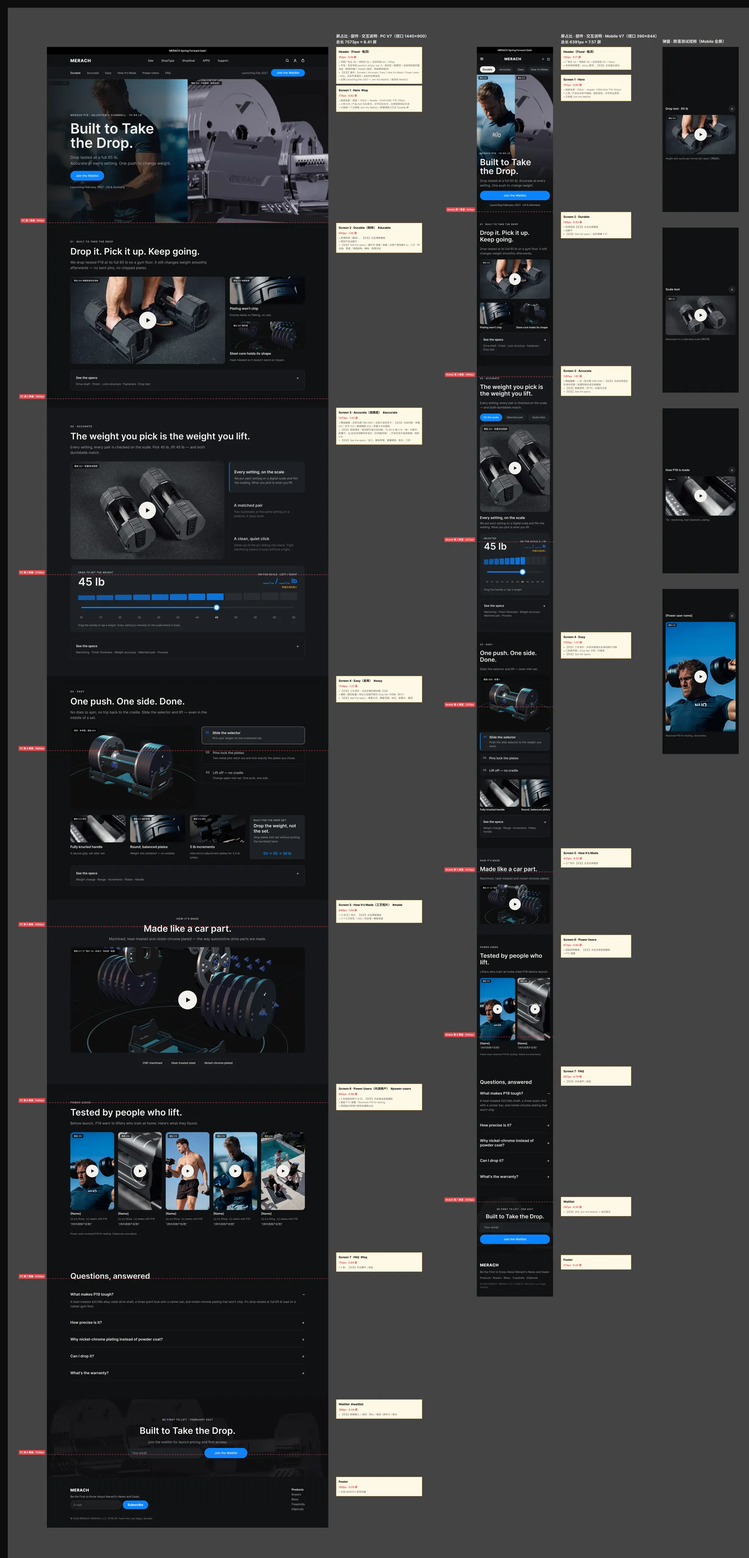
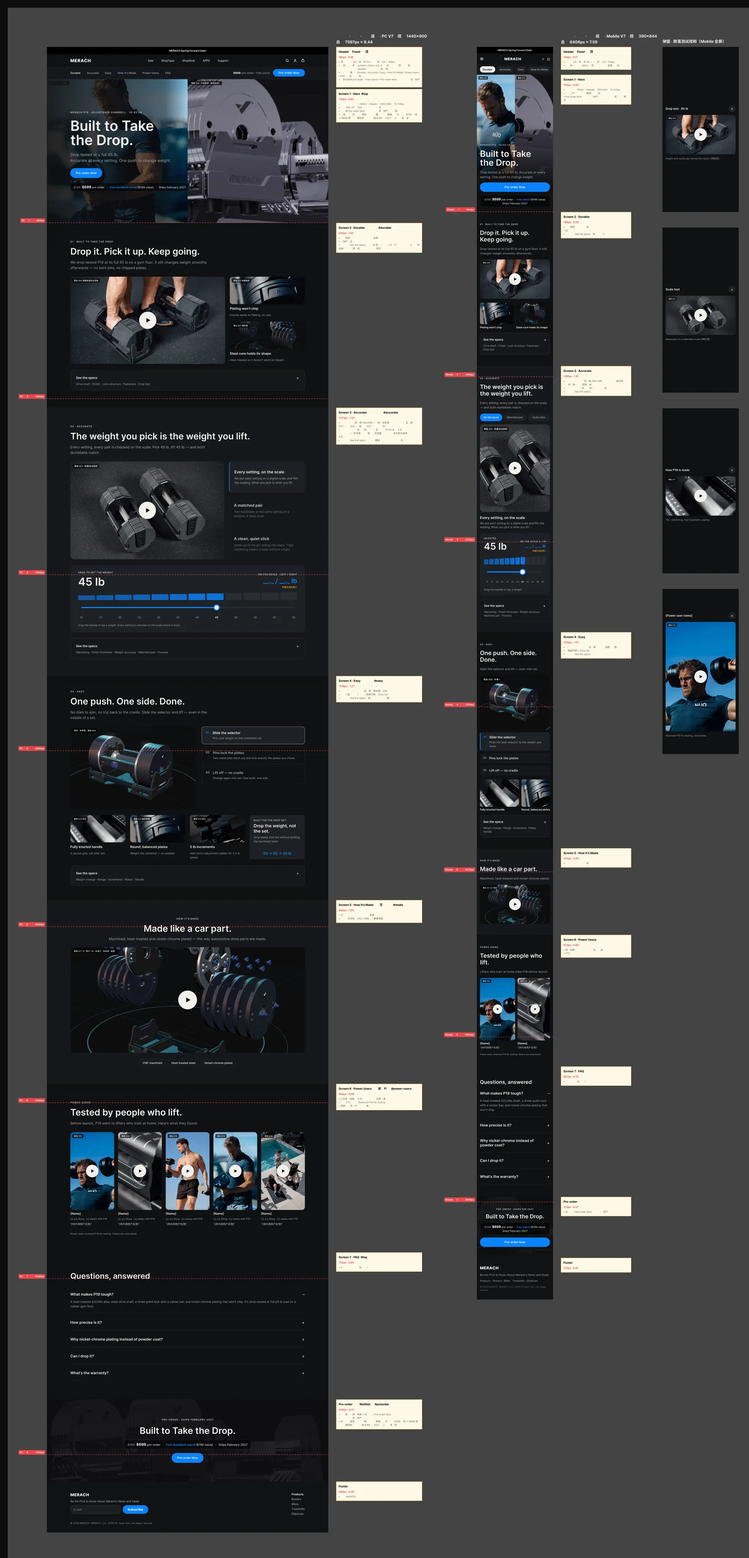
Explore V7: replace waitlist with Pre-order Now (to product page) and compact offer line (preview)
Claude-Session: https://claude.ai/code/session_01RNRjNYdB2DmXKuzbHkJAw4

diff --git a/handoff.html b/handoff.html
@@ -41,32 +41,32 @@ blockquote{margin:12px 0;padding:8px 14px;border-left:3px solid var(--accent);ba
 <header class="top"><div class="in"><b>MERACH P19</b><a href="index.html" class="">总览</a><a href="product.html" class="">产品营销方案</a><a href="imc.html" class="">整合营销方案</a><a href="comp/" class="">对标竞品参数页</a><a href="explore.html" class="">Explore 教育页</a><a href="handoff.html" class="on">开发需求</a><a href="market.html" class="">市场容量</a></div></header><div class="shell one"><main><h1>Explore 教育页 · 开发需求说明（V7）</h1>
 <p class="meta">版本 2026-11-18（V7 深石墨 · 可交互 · 二轮） · 设计稿 <a href="https://www.figma.com/design/44z4t0SOMdf8TVVw1gtSZz/%E6%97%A0%E6%B0%A7P19?node-id=68-608" target="_blank" rel="noopener">PC</a> / <a href="https://www.figma.com/design/44z4t0SOMdf8TVVw1gtSZz/%E6%97%A0%E6%B0%A7P19?node-id=70-679" target="_blank" rel="noopener">Mobile</a> · 可点击原型 <a href="https://www.figma.com/proto/44z4t0SOMdf8TVVw1gtSZz/%E6%97%A0%E6%B0%A7P19?node-id=68-608&amp;starting-point-node-id=68%3A608" target="_blank" rel="noopener">PC</a> / <a href="https://www.figma.com/proto/44z4t0SOMdf8TVVw1gtSZz/%E6%97%A0%E6%B0%A7P19?node-id=70-679&amp;starting-point-node-id=70%3A679" target="_blank" rel="noopener">Mobile</a>。图片左上角黑色标签为拍摄编号，开发时不要还原。</p>
 <h2>一、基本信息</h2>
-<ul><li>页面：P19 Explore 教育页，独立站单页，7 屏 + 等待名单 + 页头页脚。工艺数值统一放在各屏“See the specs”折叠中。</li>
+<ul><li>页面：P19 Explore 教育页，独立站单页，7 屏 + 预售条 + 页头页脚。工艺数值统一放在各屏“See the specs”折叠中。</li>
 <li>设计基准：PC 1440 宽，内容区 1200，左右边距 120；Mobile 390 宽，左右边距 16。</li>
 <li>断点建议：≥1024 用 PC 布局；768–1023 内容区自适应、并排卡片降为 2 列；&lt;768 用 Mobile 布局。</li>
 <li>屏占比口径：PC 按视口 1440×900 计 1 屏，Mobile 按 390×844 计 1 屏。</li>
 <li>英文主张 Built to Take the Drop 已确定；页面按“主张 → 三支柱”组织。</li></ul>
 <h2>二、屏占比</h2>
 <p>首屏全屏：Header + Hero 合计正好 1 屏（PC 1440×900、Mobile 390×844）。Header 含支柱导航，支柱导航吸顶。Accurate 承载画廊与滑块，允许约 1.5 屏；Easy 已压缩到约 1.3 屏（细节图与 Drop Set 卡同排）。</p>
-<div class="tw"><table><thead><tr><th>模块</th><th>锚点</th><th>PC 高度 px</th><th>PC 屏占比</th><th>Mobile 高度 px</th><th>Mobile 屏占比</th></tr></thead><tbody><tr><td>Header（广告位 + 导航 + 支柱导航，吸顶）</td><td>—</td><td>165</td><td>0.18</td><td>142</td><td>0.17</td></tr><tr><td>Screen 1 · Hero（全屏）</td><td>#top</td><td>735</td><td>0.82（与 Header 合计 1.00）</td><td>702</td><td>0.83（与 Header 合计 1.00）</td></tr><tr><td>Screen 2 · Durable（耐摔）</td><td>#durable</td><td>945</td><td>1.05</td><td>788</td><td>0.93</td></tr><tr><td>Screen 3 · Accurate（高精度）</td><td>#accurate</td><td>1372</td><td>1.52</td><td>1361</td><td>1.61</td></tr><tr><td>Screen 4 · Easy（易用 + 细节 + Drop Set）</td><td>#easy</td><td>1146</td><td>1.27</td><td>1105</td><td>1.31</td></tr><tr><td>Screen 5 · How It’s Made（工艺短片）</td><td>#made</td><td>940</td><td>1.04</td><td>443</td><td>0.52</td></tr><tr><td>Screen 6 · Power Users</td><td>#power-users</td><td>862</td><td>0.96</td><td>673</td><td>0.80</td></tr><tr><td>Screen 7 · FAQ</td><td>#faq</td><td>752</td><td>0.84</td><td>667</td><td>0.79</td></tr><tr><td>Waitlist</td><td>#waitlist</td><td>396</td><td>0.44</td><td>297</td><td>0.35</td></tr><tr><td>Footer</td><td>—</td><td>260</td><td>0.29</td><td>213</td><td>0.25</td></tr><tr><td><b>合计</b></td><td></td><td><b>7573</b></td><td><b>8.41 屏</b></td><td><b>6391</b></td><td><b>7.57 屏</b></td></tr></tbody></table></div>
+<div class="tw"><table><thead><tr><th>模块</th><th>锚点</th><th>PC 高度 px</th><th>PC 屏占比</th><th>Mobile 高度 px</th><th>Mobile 屏占比</th></tr></thead><tbody><tr><td>Header（广告位 + 导航 + 支柱导航，吸顶）</td><td>—</td><td>165</td><td>0.18</td><td>142</td><td>0.17</td></tr><tr><td>Screen 1 · Hero（全屏）</td><td>#top</td><td>735</td><td>0.82（与 Header 合计 1.00）</td><td>702</td><td>0.83（与 Header 合计 1.00）</td></tr><tr><td>Screen 2 · Durable（耐摔）</td><td>#durable</td><td>945</td><td>1.05</td><td>788</td><td>0.93</td></tr><tr><td>Screen 3 · Accurate（高精度）</td><td>#accurate</td><td>1372</td><td>1.52</td><td>1361</td><td>1.61</td></tr><tr><td>Screen 4 · Easy（易用 + 细节 + Drop Set）</td><td>#easy</td><td>1146</td><td>1.27</td><td>1105</td><td>1.31</td></tr><tr><td>Screen 5 · How It’s Made（工艺短片）</td><td>#made</td><td>940</td><td>1.04</td><td>443</td><td>0.52</td></tr><tr><td>Screen 6 · Power Users</td><td>#power-users</td><td>862</td><td>0.96</td><td>673</td><td>0.80</td></tr><tr><td>Screen 7 · FAQ</td><td>#faq</td><td>752</td><td>0.84</td><td>667</td><td>0.79</td></tr><tr><td>Pre-order（原 Waitlist）</td><td>#preorder</td><td>420</td><td>0.47</td><td>312</td><td>0.37</td></tr><tr><td>Footer</td><td>—</td><td>260</td><td>0.29</td><td>213</td><td>0.25</td></tr><tr><td><b>合计</b></td><td></td><td><b>7597</b></td><td><b>8.44 屏</b></td><td><b>6406</b></td><td><b>7.59 屏</b></td></tr></tbody></table></div>
 <h2>三、全局规范</h2>
 <h3>颜色</h3><div class="tw"><table><thead><tr><th>用途</th><th>色值</th><th>使用位置</th></tr></thead><tbody><tr><td>页面底</td><td>#0F1012</td><td>Hero、Durable、Accurate、FAQ</td></tr><tr><td>区块底</td><td>#16181B</td><td>支柱导航、规格抽屉、Easy</td></tr><tr><td>卡片</td><td>#1E2125</td><td>证据卡、滑块面板、画廊当前标签</td></tr><tr><td>分隔线</td><td>#2A2E33</td><td>卡片描边、三栏分隔</td></tr><tr><td>主文字</td><td>#F1F0EC</td><td>标题、强调</td></tr><tr><td>辅助文字</td><td>#A3A7AD</td><td>正文、说明</td></tr><tr><td>钢灰</td><td>#C7CCD2</td><td>Eyebrow、图形线条</td></tr><tr><td>主色</td><td>#0A84FF</td><td>按钮、滑块、当前标签与配重片高亮</td></tr><tr><td>待确认标记</td><td>#F5A524</td><td>仅设计稿使用，上线前删除</td></tr></tbody></table></div>
 <h3>字号</h3><p>设计稿字体为 Inter；如独立站已有品牌字体，以站内字体为准，字号与字重按下表。</p><div class="tw"><table><thead><tr><th>层级</th><th>PC</th><th>Mobile</th></tr></thead><tbody><tr><td>H1</td><td>72 / Semi Bold，行高 102%</td><td>44 / Semi Bold</td></tr><tr><td>H2</td><td>46 / Semi Bold</td><td>30 / Semi Bold</td></tr><tr><td>Eyebrow</td><td>12 / Semi Bold，全大写，字距 14%</td><td>11 / Semi Bold</td></tr><tr><td>正文</td><td>18 / Regular，行高 155%</td><td>15 / Regular</td></tr><tr><td>卡片标题</td><td>17 / Semi Bold</td><td>14 / Semi Bold</td></tr><tr><td>说明</td><td>14 / Regular</td><td>12–13 / Regular</td></tr><tr><td>按钮</td><td>15 / Semi Bold，高 52，全圆角</td><td>同 PC，通栏</td></tr></tbody></table></div>
 <p>圆角：图片与卡片 12–16，按钮与胶囊全圆角。屏与屏之间不留间距，靠 #0F1012 / #16181B 交替区分。</p>
 <h2>四、部件说明</h2>
-<div class="tw"><table><thead><tr><th>部件</th><th>位置</th><th>PC</th><th>Mobile</th><th>交互与状态</th></tr></thead><tbody><tr><td>顶部广告位 / 导航栏</td><td>全站</td><td>复用现有 Header</td><td>复用移动端 Header</td><td>随页面滚走</td></tr><tr><td>支柱导航</td><td>Header 下方</td><td>高 64，6 个锚点 + 上市时间 + Mini CTA</td><td>高 53，横滑胶囊</td><td>吸顶（sticky）、滚动高亮、平滑滚动</td></tr><tr><td>Hero</td><td>Screen 1</td><td>高 = 100vh − Header；人物 / 产品各 720 宽铺满；左侧渐变，文案垂直居中</td><td>高 = 100vh − Header；人物 / 产品各 195 宽铺满；底部渐变，文案压在底部</td><td>一个主按钮 + 上市时间</td></tr><tr><td>视频位 + 弹窗</td><td>Screen 2、3、5、6</td><td>16:9；竖版 224×398</td><td>全屏弹窗</td><td>点击播放，关闭停止</td></tr><tr><td>证据卡</td><td>Screen 2</td><td>右侧两张产品图卡</td><td>两列</td><td>静态</td></tr><tr><td>精度画廊（Accurate Proof Gallery）</td><td>Screen 3</td><td>左大图 788×500 + 右侧 3 张标签卡</td><td>标签 + 大图 358×448 + 说明</td><td>点击切换；Mobile 可左右滑动</td></tr><tr><td>拖拽重量滑块（Weight Drag Slider）</td><td>Screen 3</td><td>宽 1200；大数字 + 左 / 右实测读数 + 12 段配重片 + 滑轨 + 刻度</td><td>宽 358，同结构</td><td>拖拽 / 点击刻度，吸附 5 lb</td></tr><tr><td>See the specs（规格抽屉）</td><td>Screen 2、3、4</td><td>收起时显示规格项目名；展开为三列表格</td><td>展开为纵向堆叠</td><td>点击展开 / 收起</td></tr><tr><td>步骤演示</td><td>Screen 4</td><td>主图 640×420 + 右侧 3 步</td><td>主图 358×280 + 纵向 3 步</td><td>点击切换；Mobile 可滑动</td></tr><tr><td>细节卡 + Drop Set 卡</td><td>Screen 4</td><td>四卡同排：3 张产品图 282×140 + 1 张 Drop Set 文字卡</td><td>同一行横滑 200×162 ×4</td><td>静态；Drop Set 注释必须保留</td></tr><tr><td>工艺标签</td><td>Screen 5</td><td>3 个胶囊</td><td>—</td><td>静态</td></tr><tr><td>内测用户视频卡</td><td>Screen 6</td><td>5 张 9:16 卡片</td><td>横滑 4 张</td><td>点击竖版弹窗播放；FTC 披露</td></tr><tr><td>FAQ</td><td>Screen 7</td><td>宽 1200</td><td>通栏</td><td>手风琴；FAQPage 结构化数据</td></tr><tr><td>Waitlist 表单</td><td>Waitlist</td><td>输入框 + 按钮横排</td><td>上下堆叠</td><td>默认 / 加载 / 成功 / 错误</td></tr><tr><td>Footer</td><td>全站</td><td>复用</td><td>复用</td><td>不新开发</td></tr></tbody></table></div>
+<div class="tw"><table><thead><tr><th>部件</th><th>位置</th><th>PC</th><th>Mobile</th><th>交互与状态</th></tr></thead><tbody><tr><td>顶部广告位 / 导航栏</td><td>全站</td><td>复用现有 Header</td><td>复用移动端 Header</td><td>随页面滚走</td></tr><tr><td>支柱导航</td><td>Header 下方</td><td>高 64，6 个锚点 + “$699 pre-order · Free stand” + Pre-order Now</td><td>高 53，横滑胶囊</td><td>吸顶（sticky）、滚动高亮、平滑滚动</td></tr><tr><td>Hero</td><td>Screen 1</td><td>高 = 100vh − Header；人物 / 产品各 720 宽铺满；左侧渐变，文案垂直居中</td><td>高 = 100vh − Header；人物 / 产品各 195 宽铺满；底部渐变，文案压在底部</td><td>Pre-order Now + 一行优惠条</td></tr><tr><td>视频位 + 弹窗</td><td>Screen 2、3、5、6</td><td>16:9；竖版 224×398</td><td>全屏弹窗</td><td>点击播放，关闭停止</td></tr><tr><td>证据卡</td><td>Screen 2</td><td>右侧两张产品图卡</td><td>两列</td><td>静态</td></tr><tr><td>精度画廊（Accurate Proof Gallery）</td><td>Screen 3</td><td>左大图 788×500 + 右侧 3 张标签卡</td><td>标签 + 大图 358×448 + 说明</td><td>点击切换；Mobile 可左右滑动</td></tr><tr><td>拖拽重量滑块（Weight Drag Slider）</td><td>Screen 3</td><td>宽 1200；大数字 + 左 / 右实测读数 + 12 段配重片 + 滑轨 + 刻度</td><td>宽 358，同结构</td><td>拖拽 / 点击刻度，吸附 5 lb</td></tr><tr><td>See the specs（规格抽屉）</td><td>Screen 2、3、4</td><td>收起时显示规格项目名；展开为三列表格</td><td>展开为纵向堆叠</td><td>点击展开 / 收起</td></tr><tr><td>步骤演示</td><td>Screen 4</td><td>主图 640×420 + 右侧 3 步</td><td>主图 358×280 + 纵向 3 步</td><td>点击切换；Mobile 可滑动</td></tr><tr><td>细节卡 + Drop Set 卡</td><td>Screen 4</td><td>四卡同排：3 张产品图 282×140 + 1 张 Drop Set 文字卡</td><td>同一行横滑 200×162 ×4</td><td>静态；Drop Set 注释必须保留</td></tr><tr><td>工艺标签</td><td>Screen 5</td><td>3 个胶囊</td><td>—</td><td>静态</td></tr><tr><td>内测用户视频卡</td><td>Screen 6</td><td>5 张 9:16 卡片</td><td>横滑 4 张</td><td>点击竖版弹窗播放；FTC 披露</td></tr><tr><td>FAQ</td><td>Screen 7</td><td>宽 1200</td><td>通栏</td><td>手风琴；FAQPage 结构化数据</td></tr><tr><td>预售条（原 Waitlist）</td><td>页尾</td><td>标题 + 优惠条 + 按钮，居中</td><td>同 PC，按钮通栏，优惠条两行</td><td>点击跳转产品页</td></tr><tr><td>优惠条</td><td>Hero、页尾</td><td>一行胶囊：原价划线、预售价加粗、赠品蓝色</td><td>两行</td><td>静态；价格与赠品待整合营销确认</td></tr><tr><td>Footer</td><td>全站</td><td>复用</td><td>复用</td><td>不新开发</td></tr></tbody></table></div>
 <h2>五、交互清单</h2>
-<div class="tw"><table><thead><tr><th>元素</th><th>交互</th></tr></thead><tbody><tr><td>Join the Waitlist（首屏、吸顶导航）</td><td>悬停变色；点击滚动到 #waitlist</td></tr><tr><td>支柱导航（吸顶）</td><td>position: sticky; top: 0，滚动后一直置顶；当前所在屏高亮；点击平滑滚动。锚点：Durable / Accurate / Easy / How It’s Made / Power Users / FAQ</td></tr><tr><td>视频播放按钮</td><td>点击弹窗播放：跌落测试、称重测试、工厂短片、内测用户竖版视频；Mobile 为全屏</td></tr><tr><td>精度画廊</td><td>PC：点击右侧三张标签卡切换左侧大图；Mobile：点击标签或左右滑动切换；称重卡带播放按钮</td></tr><tr><td>拖拽重量滑块</td><td>拖动把手或点击刻度，10–65 lb 每 5 lb 一档，吸附到档位；大数字、配重片高亮、左 / 右实测读数同步变化（实测值称重后填入）</td></tr><tr><td>See the specs</td><td>点击展开 / 收起；展开为“规格 / 参数 / 对用户意味着什么”，PC 三列表格，Mobile 纵向堆叠；三屏各 5 行</td></tr><tr><td>Easy 步骤</td><td>PC 点击 01 / 02 / 03 切换主图；Mobile 点击步骤或左右滑动图片切换</td></tr><tr><td>FAQ 手风琴</td><td>默认展开第 1 条，同时只展开 1 条</td></tr><tr><td>Waitlist 表单</td><td>提交 → 加载 → 成功；错误态（PC 与 Mobile 一致）</td></tr></tbody></table></div>
+<div class="tw"><table><thead><tr><th>元素</th><th>交互</th></tr></thead><tbody><tr><td>Pre-order Now（首屏、吸顶导航、页尾预售条）</td><td>悬停变色；点击跳转 P19 产品页（链接待定）</td></tr><tr><td>优惠条</td><td>静态一行：99 划线 → 99 预售价 · 赠哑铃底座（价值 99）· 2027 年 2 月到货即发（预览，价格与赠品以整合营销方案为准）</td></tr><tr><td>支柱导航（吸顶）</td><td>position: sticky; top: 0，滚动后一直置顶；当前所在屏高亮；点击平滑滚动。锚点：Durable / Accurate / Easy / How It’s Made / Power Users / FAQ</td></tr><tr><td>视频播放按钮</td><td>点击弹窗播放：跌落测试、称重测试、工厂短片、内测用户竖版视频；Mobile 为全屏</td></tr><tr><td>精度画廊</td><td>PC：点击右侧三张标签卡切换左侧大图；Mobile：点击标签或左右滑动切换；称重卡带播放按钮</td></tr><tr><td>拖拽重量滑块</td><td>拖动把手或点击刻度，10–65 lb 每 5 lb 一档，吸附到档位；大数字、配重片高亮、左 / 右实测读数同步变化（实测值称重后填入）</td></tr><tr><td>See the specs</td><td>点击展开 / 收起；展开为“规格 / 参数 / 对用户意味着什么”，PC 三列表格，Mobile 纵向堆叠；三屏各 5 行</td></tr><tr><td>Easy 步骤</td><td>PC 点击 01 / 02 / 03 切换主图；Mobile 点击步骤或左右滑动图片切换</td></tr><tr><td>FAQ 手风琴</td><td>默认展开第 1 条，同时只展开 1 条</td></tr></tbody></table></div>
 <p>所有组件的状态（悬停、展开、切换、表单流程）已在 Figma 组件区全部展开，可直接在原型中点击体验：</p>
 <img src="assets/explore-v5-components.webp" alt="Explore V7 交互组件与状态" loading="lazy">
 <h2>六、图片与视频位</h2>
 <p>请按下表尺寸出 2 倍图，格式 WebP；视频提供 MP4（H.264）与封面图。当前全部为占位图，上线前替换为实拍。</p>
-<div class="tw"><table><thead><tr><th>图位（拍摄编号）</th><th>PC 尺寸</th><th>Mobile 尺寸</th><th>说明</th></tr></thead><tbody><tr><td>hero 人物（S18）</td><td>720×735</td><td>195×702</td><td>人物使用场景，竖向裁切需保留人物主体</td></tr><tr><td>hero 产品静物（S20）</td><td>720×735</td><td>195×702</td><td>居家空间中的 P19</td></tr><tr><td>跌落测试（S06）</td><td>792×446 + MP4</td><td>358×201</td><td>正式跌落测试视频</td></tr><tr><td>称重测试（S21）</td><td>788×500 + MP4</td><td>358×448</td><td>各档上秤，读数特写</td></tr><tr><td>天平（S22）</td><td>788×500</td><td>358×448</td><td>两只等重，天平水平</td></tr><tr><td>插销微距（S23）</td><td>788×500 + MP4</td><td>358×448</td><td>插销慢动作，同期收音</td></tr><tr><td>证据卡（S07、S15）</td><td>384×140</td><td>173×110</td><td>爆炸图；电镀表面</td></tr><tr><td>步骤（S03–S05）</td><td>640×420 ×3</td><td>358×280 ×3</td><td>建议静音循环短视频</td></tr><tr><td>细节（S14、S15）</td><td>282×140 ×3</td><td>200×140 ×3</td><td>握把、圆形配重、档位</td></tr><tr><td>工厂短片（S17）</td><td>1200×540 + MP4</td><td>358×201</td><td>15 秒：机加工、热处理、电镀</td></tr><tr><td>内测用户（S19）</td><td>224×398 封面 + 9:16 MP4 ×5</td><td>180×320 ×4</td><td>由内测用户提供</td></tr><tr><td>waitlist bg</td><td>1440×396</td><td>390×297</td><td>文字区压暗</td></tr></tbody></table></div>
+<div class="tw"><table><thead><tr><th>图位（拍摄编号）</th><th>PC 尺寸</th><th>Mobile 尺寸</th><th>说明</th></tr></thead><tbody><tr><td>hero 人物（S18）</td><td>720×735</td><td>195×702</td><td>人物使用场景，竖向裁切需保留人物主体</td></tr><tr><td>hero 产品静物（S20）</td><td>720×735</td><td>195×702</td><td>居家空间中的 P19</td></tr><tr><td>跌落测试（S06）</td><td>792×446 + MP4</td><td>358×201</td><td>正式跌落测试视频</td></tr><tr><td>称重测试（S21）</td><td>788×500 + MP4</td><td>358×448</td><td>各档上秤，读数特写</td></tr><tr><td>天平（S22）</td><td>788×500</td><td>358×448</td><td>两只等重，天平水平</td></tr><tr><td>插销微距（S23）</td><td>788×500 + MP4</td><td>358×448</td><td>插销慢动作，同期收音</td></tr><tr><td>证据卡（S07、S15）</td><td>384×140</td><td>173×110</td><td>爆炸图；电镀表面</td></tr><tr><td>步骤（S03–S05）</td><td>640×420 ×3</td><td>358×280 ×3</td><td>建议静音循环短视频</td></tr><tr><td>细节（S14、S15）</td><td>282×140 ×3</td><td>200×140 ×3</td><td>握把、圆形配重、档位</td></tr><tr><td>工厂短片（S17）</td><td>1200×540 + MP4</td><td>358×201</td><td>15 秒：机加工、热处理、电镀</td></tr><tr><td>内测用户（S19）</td><td>224×398 封面 + 9:16 MP4 ×5</td><td>180×320 ×4</td><td>由内测用户提供</td></tr><tr><td>预售条背景</td><td>1440×420</td><td>390×312</td><td>文字区压暗</td></tr></tbody></table></div>
 <h2>七、待确认</h2>
 <ul><li>重量精度 ±1.5%：待工厂确认实测数据，未确认前 Screen 3 规格抽屉与 FAQ 相关内容不得上线。</li>
 <li>跌落测试高度与次数：待正式报告，确认后补入 Screen 2 与视频弹窗说明。</li>
 <li>质保年限与是否覆盖跌落：待确认后补入 FAQ。</li>
-<li>Waitlist 对接的邮件列表与早鸟权益文案：待定。</li>
+<li>产品页链接、预售价（$699）、赠品（哑铃底座，价值 $199）与发货时间：以整合营销方案为准，当前为预览。</li>
 <li>Power Users 视频：内测用户提供后替换第 6 屏占位，需肖像与内容授权、FTC 披露。</li>
 <li>拖拽滑块的实测数值（每档左 / 右两只）：称重测试完成后填入。</li>
 <li>规格抽屉中橙色方括号内容（跌落高度与次数、配对检验流程、微调片配置与价格）：确认后替换。</li></ul>

diff --git a/explore.html b/explore.html
@@ -43,7 +43,8 @@ blockquote{margin:12px 0;padding:8px 14px;border-left:3px solid var(--accent);ba
 <p>设计稿：<a href="https://www.figma.com/design/44z4t0SOMdf8TVVw1gtSZz/%E6%97%A0%E6%B0%A7P19?node-id=68-608" target="_blank" rel="noopener">Figma PC</a> · <a href="https://www.figma.com/design/44z4t0SOMdf8TVVw1gtSZz/%E6%97%A0%E6%B0%A7P19?node-id=70-679" target="_blank" rel="noopener">Figma Mobile</a>　可点击原型：<a href="https://www.figma.com/proto/44z4t0SOMdf8TVVw1gtSZz/%E6%97%A0%E6%B0%A7P19?node-id=68-608&amp;starting-point-node-id=68%3A608" target="_blank" rel="noopener">PC 原型</a> · <a href="https://www.figma.com/proto/44z4t0SOMdf8TVVw1gtSZz/%E6%97%A0%E6%B0%A7P19?node-id=70-679&amp;starting-point-node-id=70%3A679" target="_blank" rel="noopener">Mobile 原型</a>　屏占比与部件说明见 <a href="handoff.html">开发需求</a>。</p>
 <h2>本版调整</h2>
 <ul>
-<li><b>首屏全屏：</b>PC 与 Mobile 首屏都铺满一屏；只保留 Join the Waitlist 一个按钮，取消 Watch the Drop Test 和三支柱胶囊（与下方导航重复）。</li>
+<li><b>按钮改为直接下单：</b>取消等待名单，所有按钮改为 Pre-order Now，点击跳转产品页；按钮下方一行优惠条：99 划线 → 99 预售价 · 赠哑铃底座（价值 99）· 2027 年 2 月到货即发（预览，价格与赠品以整合营销方案为准）。</li>
+<li><b>首屏全屏：</b>PC 与 Mobile 首屏都铺满一屏；只保留一个主按钮，取消 Watch the Drop Test 和三支柱胶囊（与下方导航重复）。</li>
 <li><b>支柱导航吸顶：</b>Durable / Accurate / Easy 等锚点在滚动时一直置顶。</li>
 <li><b>高精度：</b>改为大图画廊（一次看一张大图，Mobile 也看得清）加拖拽重量滑块。</li>
 <li><b>See the specs：</b>工艺数值展开后讲清“参数是什么、对用户意味着什么”，每屏 5 行。</li>
@@ -51,9 +52,9 @@ blockquote{margin:12px 0;padding:8px 14px;border-left:3px solid var(--accent);ba
 <li><b>删除 Your Space 屏；</b>Mobile 与 PC 交互一致（画廊、滑块、步骤、规格、表单均可点击）。</li>
 </ul>
 <h2>页面结构</h2>
-<div class="tw"><table><thead><tr><th>屏</th><th>模块</th><th>要点</th></tr></thead><tbody><tr><td>1</td><td>Hero（全屏）</td><td>Built to Take the Drop.；人与产品各半铺满首屏；一个主按钮</td></tr><tr><td>—</td><td>支柱导航</td><td>吸顶；滚动高亮；点击平滑滚动</td></tr><tr><td>2</td><td>Durable · 耐摔</td><td>跌落测试视频 + 两张产品证据卡；See the specs（传动轴、表面、锁固结构、螺栓、跌落测试）</td></tr><tr><td>3</td><td>Accurate · 高精度</td><td>大图画廊（称重 / 天平 / 插销微距）+ 拖拽重量滑块；See the specs（加工、镀层厚度、重量精度、配对、工序）</td></tr><tr><td>4</td><td>Easy · 易用</td><td>三步演示 + 握把 / 圆形配重 / 档位与 Drop Set 四卡同排（Mobile 横滑）；See the specs（换重方式、重量范围、档位、配重片、握把）</td></tr><tr><td>5</td><td>How It’s Made · 工艺</td><td>15 秒工厂短片 + 三个工艺标签</td></tr><tr><td>6</td><td>Power Users · 内测用户</td><td>3–5 条竖版短视频，点击播放；FTC 披露</td></tr><tr><td>7</td><td>FAQ + Waitlist</td><td>手风琴；等待名单表单</td></tr></tbody></table></div>
+<div class="tw"><table><thead><tr><th>屏</th><th>模块</th><th>要点</th></tr></thead><tbody><tr><td>1</td><td>Hero（全屏）</td><td>Built to Take the Drop.；人与产品各半铺满首屏；一个主按钮</td></tr><tr><td>—</td><td>支柱导航</td><td>吸顶；滚动高亮；点击平滑滚动</td></tr><tr><td>2</td><td>Durable · 耐摔</td><td>跌落测试视频 + 两张产品证据卡；See the specs（传动轴、表面、锁固结构、螺栓、跌落测试）</td></tr><tr><td>3</td><td>Accurate · 高精度</td><td>大图画廊（称重 / 天平 / 插销微距）+ 拖拽重量滑块；See the specs（加工、镀层厚度、重量精度、配对、工序）</td></tr><tr><td>4</td><td>Easy · 易用</td><td>三步演示 + 握把 / 圆形配重 / 档位与 Drop Set 四卡同排（Mobile 横滑）；See the specs（换重方式、重量范围、档位、配重片、握把）</td></tr><tr><td>5</td><td>How It’s Made · 工艺</td><td>15 秒工厂短片 + 三个工艺标签</td></tr><tr><td>6</td><td>Power Users · 内测用户</td><td>3–5 条竖版短视频，点击播放；FTC 披露</td></tr><tr><td>7</td><td>FAQ + 预售条</td><td>手风琴；页尾预售条（优惠条 + Pre-order Now）</td></tr></tbody></table></div>
 <h2>交互清单</h2>
-<div class="tw"><table><thead><tr><th>元素</th><th>交互</th></tr></thead><tbody><tr><td>Join the Waitlist（首屏、吸顶导航）</td><td>悬停变色；点击滚动到 #waitlist</td></tr><tr><td>支柱导航（吸顶）</td><td>position: sticky; top: 0，滚动后一直置顶；当前所在屏高亮；点击平滑滚动。锚点：Durable / Accurate / Easy / How It’s Made / Power Users / FAQ</td></tr><tr><td>视频播放按钮</td><td>点击弹窗播放：跌落测试、称重测试、工厂短片、内测用户竖版视频；Mobile 为全屏</td></tr><tr><td>精度画廊</td><td>PC：点击右侧三张标签卡切换左侧大图；Mobile：点击标签或左右滑动切换；称重卡带播放按钮</td></tr><tr><td>拖拽重量滑块</td><td>拖动把手或点击刻度，10–65 lb 每 5 lb 一档，吸附到档位；大数字、配重片高亮、左 / 右实测读数同步变化（实测值称重后填入）</td></tr><tr><td>See the specs</td><td>点击展开 / 收起；展开为“规格 / 参数 / 对用户意味着什么”，PC 三列表格，Mobile 纵向堆叠；三屏各 5 行</td></tr><tr><td>Easy 步骤</td><td>PC 点击 01 / 02 / 03 切换主图；Mobile 点击步骤或左右滑动图片切换</td></tr><tr><td>FAQ 手风琴</td><td>默认展开第 1 条，同时只展开 1 条</td></tr><tr><td>Waitlist 表单</td><td>提交 → 加载 → 成功；错误态（PC 与 Mobile 一致）</td></tr></tbody></table></div>
+<div class="tw"><table><thead><tr><th>元素</th><th>交互</th></tr></thead><tbody><tr><td>Pre-order Now（首屏、吸顶导航、页尾预售条）</td><td>悬停变色；点击跳转 P19 产品页（链接待定）</td></tr><tr><td>优惠条</td><td>静态一行：99 划线 → 99 预售价 · 赠哑铃底座（价值 99）· 2027 年 2 月到货即发（预览，价格与赠品以整合营销方案为准）</td></tr><tr><td>支柱导航（吸顶）</td><td>position: sticky; top: 0，滚动后一直置顶；当前所在屏高亮；点击平滑滚动。锚点：Durable / Accurate / Easy / How It’s Made / Power Users / FAQ</td></tr><tr><td>视频播放按钮</td><td>点击弹窗播放：跌落测试、称重测试、工厂短片、内测用户竖版视频；Mobile 为全屏</td></tr><tr><td>精度画廊</td><td>PC：点击右侧三张标签卡切换左侧大图；Mobile：点击标签或左右滑动切换；称重卡带播放按钮</td></tr><tr><td>拖拽重量滑块</td><td>拖动把手或点击刻度，10–65 lb 每 5 lb 一档，吸附到档位；大数字、配重片高亮、左 / 右实测读数同步变化（实测值称重后填入）</td></tr><tr><td>See the specs</td><td>点击展开 / 收起；展开为“规格 / 参数 / 对用户意味着什么”，PC 三列表格，Mobile 纵向堆叠；三屏各 5 行</td></tr><tr><td>Easy 步骤</td><td>PC 点击 01 / 02 / 03 切换主图；Mobile 点击步骤或左右滑动图片切换</td></tr><tr><td>FAQ 手风琴</td><td>默认展开第 1 条，同时只展开 1 条</td></tr></tbody></table></div>
 <p>所有组件状态已在 Figma 组件区展开：</p>
 <img src="assets/explore-v5-components.webp" alt="Explore 交互组件与状态" loading="lazy">
 <div style="display:grid;grid-template-columns:minmax(0,3fr) minmax(0,1fr);gap:24px;align-items:start">

diff --git a/product.html b/product.html
@@ -749,7 +749,7 @@ mm；工序为下料—开平—割板—粗车—CNC—精车—电镀—检验
 </tbody></table></div>
 <p>产品页与教育页的区别：教育页以视频和交互讲清楚“为什么”；产品页以静态信息图让用户几秒看懂卖点。教育页的视频不能直接当产品页主图，需从中取静帧或另出信息图。</p>
 <h2 id="六explore-教育页与拍摄清单">五、Explore 教育页与拍摄清单</h2>
-<p>Explore 教育页 V7（PC 与 Mobile）已在 <a href="https://www.figma.com/design/44z4t0SOMdf8TVVw1gtSZz/%E6%97%A0%E6%B0%A7P19?node-id=68-608">Figma「无氧P19」文件</a> 完成，并做成可点击原型（<a href="https://www.figma.com/proto/44z4t0SOMdf8TVVw1gtSZz/%E6%97%A0%E6%B0%A7P19?node-id=68-608&amp;starting-point-node-id=68%3A608">PC</a> / <a href="https://www.figma.com/proto/44z4t0SOMdf8TVVw1gtSZz/%E6%97%A0%E6%B0%A7P19?node-id=70-679&amp;starting-point-node-id=70%3A679">Mobile</a>），PC 与 Mobile 交互一致。11/18 二轮调整：首屏全屏，只留一个主按钮；支柱导航吸顶；高精度屏改为大图画廊加拖拽滑块；删除 Your Space 屏；三个 See the specs 展开为“规格 / 参数 / 对用户意味着什么”的详细说明；Easy 屏细节图与 Drop Set 并为一排。PC 全长 7,573px（约 8.4 屏），Mobile 全长 6,391px（约 7.6 屏）。屏占比、部件与交互说明见“开发需求”页。</p>
+<p>Explore 教育页 V7（PC 与 Mobile）已在 <a href="https://www.figma.com/design/44z4t0SOMdf8TVVw1gtSZz/%E6%97%A0%E6%B0%A7P19?node-id=68-608">Figma「无氧P19」文件</a> 完成，并做成可点击原型（<a href="https://www.figma.com/proto/44z4t0SOMdf8TVVw1gtSZz/%E6%97%A0%E6%B0%A7P19?node-id=68-608&amp;starting-point-node-id=68%3A608">PC</a> / <a href="https://www.figma.com/proto/44z4t0SOMdf8TVVw1gtSZz/%E6%97%A0%E6%B0%A7P19?node-id=70-679&amp;starting-point-node-id=70%3A679">Mobile</a>），PC 与 Mobile 交互一致。11/18 二轮调整：首屏全屏，只留一个主按钮 Pre-order Now（跳转产品页），下方一行优惠条（$799→$699、赠哑铃底座、2 月到货即发，预览，以整合营销方案为准）；支柱导航吸顶；高精度屏改为大图画廊加拖拽滑块；删除 Your Space 屏；三个 See the specs 展开为“规格 / 参数 / 对用户意味着什么”的详细说明；Easy 屏细节图与 Drop Set 并为一排。PC 全长 7,597px（约 8.4 屏），Mobile 全长 6,406px（约 7.6 屏）。屏占比、部件与交互说明见“开发需求”页。</p>
 <div class="tw"><table>
 <thead><tr class="header"><th>屏</th><th>模块</th><th>图片 / 视频数</th><th>对应拍摄</th></tr></thead>
 <tbody>
@@ -759,7 +759,7 @@ mm；工序为下料—开平—割板—粗车—CNC—精车—电镀—检验
 <tr><td>4</td><td>Easy：三步演示 + 握把 / 圆形配重 / 档位与 Drop Set（P1b）四卡同排 + See the specs</td><td>9</td><td>S03–S05、S10、S11、S14、S15</td></tr>
 <tr><td>5</td><td>How It’s Made：15 秒工厂短片 + 三个工艺标签</td><td>1</td><td>S17</td></tr>
 <tr><td>6</td><td>Power Users：内测用户竖版短视频 3–5 条</td><td>5</td><td>S19</td></tr>
-<tr><td>7</td><td>FAQ（手风琴）+ 等待名单表单</td><td>—</td><td>—</td></tr>
+<tr><td>7</td><td>FAQ（手风琴）+ 页尾预售条</td><td>—</td><td>—</td></tr>
 </tbody>
 </table></div>
 <p><strong>拍摄与出图清单</strong></p>
